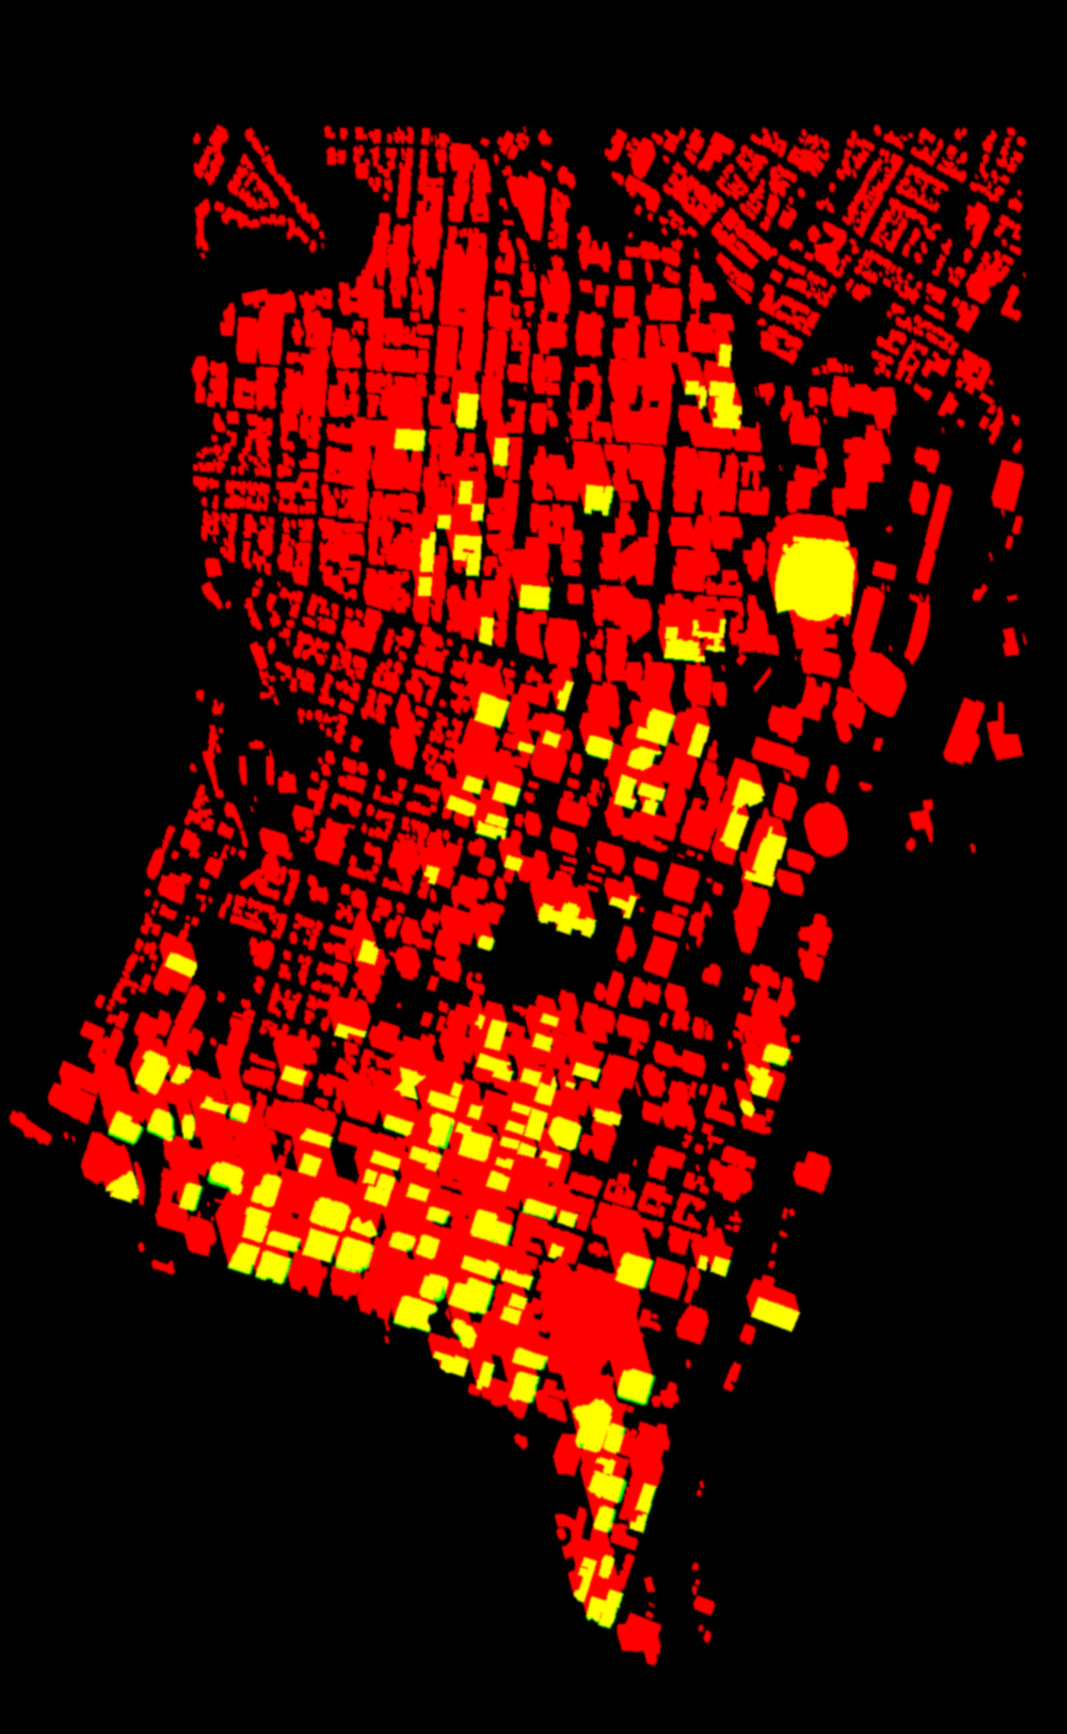
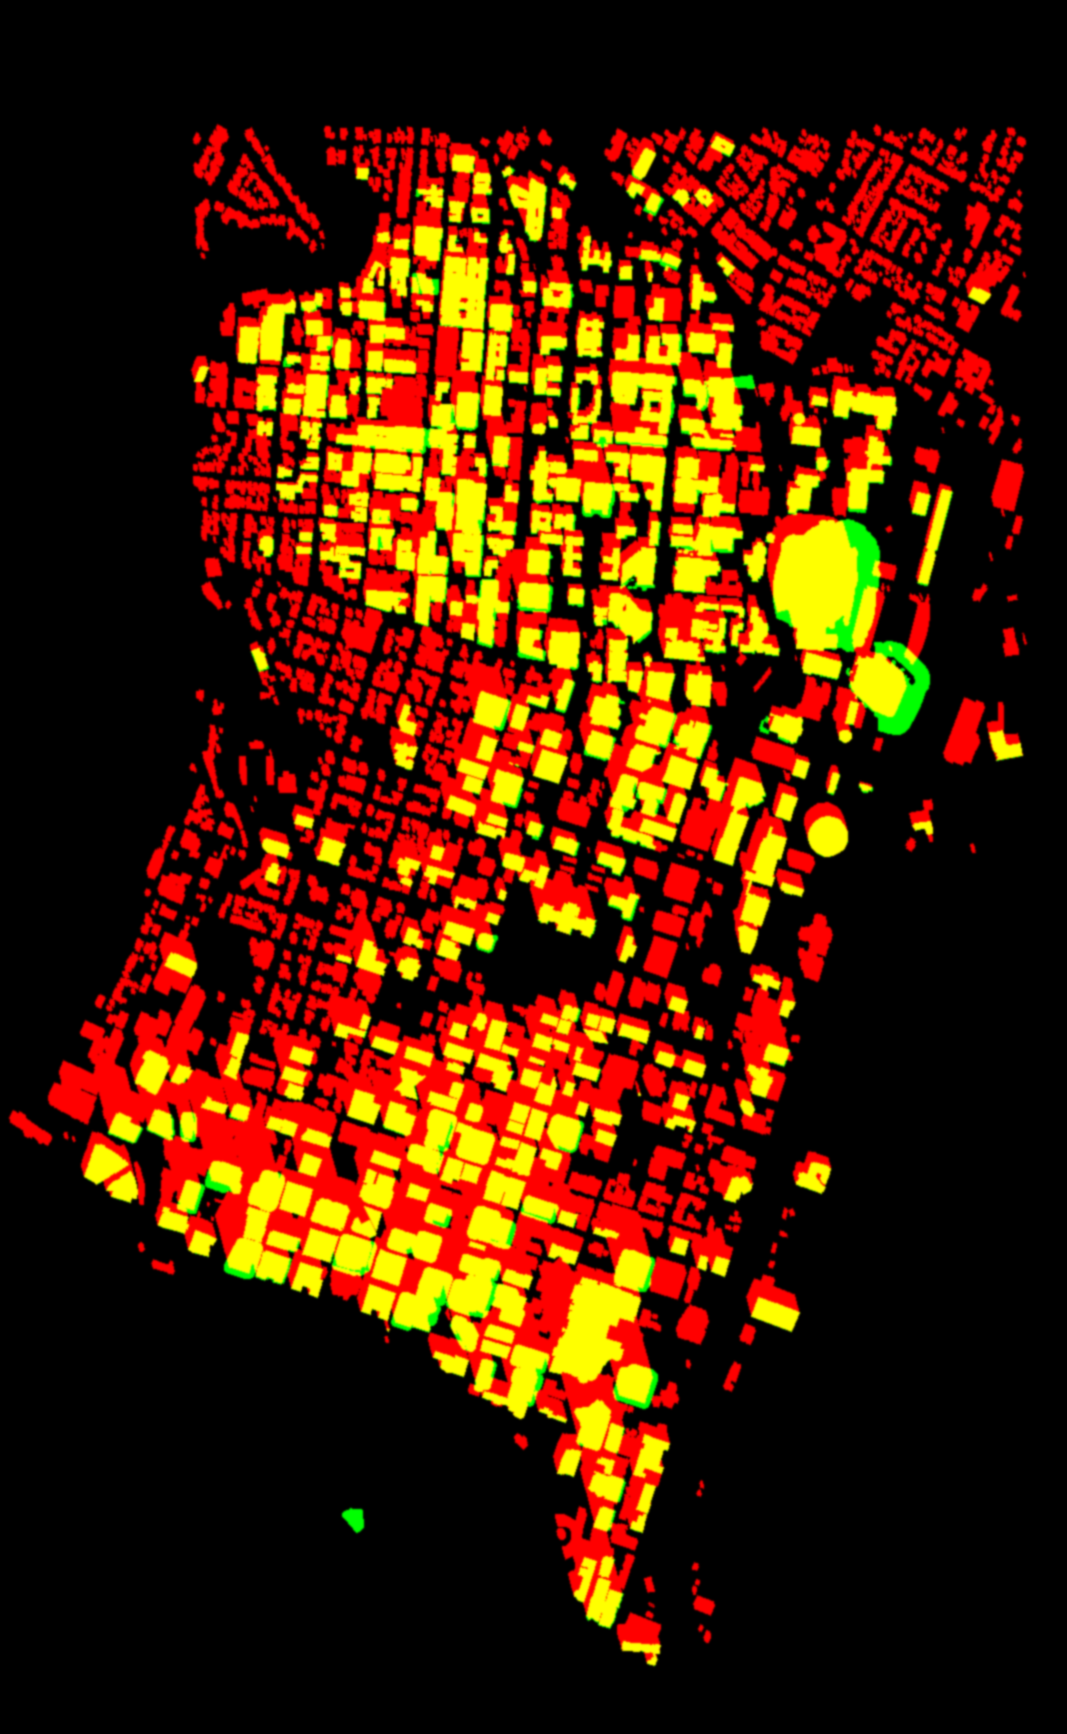
v2 ground: the aerial's leaning image of every Blender model is masked to paving round the model
The photograph is not a true ortho, so tall buildings show displaced beside their footprints (DKR's seating outside the
model's west wall). scripts/v2/street_footprints.mjs rasterises where every Blender model's triangles stand (above 0.5 m,
1.5 m cells); street_mask.py grows each by 0.1 x its top (2-16 m) into the lean channel, plain extrusions over 20 m by
0.05 x height. Lean read on the City aerial: UT Tower < 2 m (0.02 h), DKR upper west deck ~3 m (0.05 h), Frost Bank Tower
10-15 m (~0.08 h). The ground fades 92 % to plain paving there. Lean views added to v2-street-shots.mjs.

diff --git a/v2/street-look.js b/v2/street-look.js
@@ -18,8 +18,8 @@ export const GROUND_LOOK = {
   SHADOW_DARK_LIN: [0.02, 0.09], // linear luminance: fully lifted below the first, not at all above the second
   // Leaning roofs: the photograph is not a true ortho, so a tall roof is drawn beside its footprint. Round tall buildings the ground
   // fades toward this plain paving colour (mask channel G).
-  LEAN_PAVING: '#6b6860',
-  LEAN_STRENGTH: 0.5,
+  LEAN_PAVING: '#55534d',       // the plain paving the ground fades to under and round a leaning building (linear ~0.09, the aerial's pavement after GAIN)
+  LEAN_STRENGTH: 0.92,
 
   // ── streaming (not taste: what keeps it sharp and fast) ───────────────
   LOD_FACTOR: 1.6,              // a tile is split when its pixel is bigger than this many screen pixels at its nearest point

diff --git a/scripts/v2/street_mask.py b/scripts/v2/street_mask.py
@@ -41,9 +41,18 @@ SUN = [
 ]
 SUN_DEFAULT = (165.0, 35.0)                    # read off the photograph: Frost Bank Tower's shadow runs to bearing ~345 (light from ~165), and mid-January at that azimuth in Austin the sun is ~35 deg up (11:15 local)
 MIN_H = 4.0                                    # lower outlines throw too little shadow to matter
-LEAN_MIN_H = 40.0
-LEAN_FRAC = 0.06
-LEAN_MAX_M = 14.0
+# Leaning buildings (channel G). The photograph is not a true ortho: a building's upper floors are drawn displaced away from the
+# photo's centre, beside the real footprint, and show as a ghost on the ground round the 3D model (owner's lane, 2026-10-18: DKR's
+# seating outside the model's west wall). Read on three buildings on the City aerial with their outlines drawn on it (10 m grid):
+# the UT Tower (97 m) under 2 m (0.02 x h: the frame's centre is near it), DKR's upper west deck (68 m) about 3 m (0.05 x h), Frost
+# Bank Tower (157 m) 10-15 m (about 0.08 x h). So: every Blender model's own footprint (street_footprints.mjs: where its triangles
+# stand) grown by LEAN_FRAC_MODEL x its top, at least LEAN_MIN_MODEL_M; every plain extrusion over LEAN_MIN_H by LEAN_FRAC x height.
+LEAN_MIN_H = 20.0
+LEAN_FRAC = 0.05
+LEAN_MAX_M = 10.0
+LEAN_FRAC_MODEL = 0.1
+LEAN_MIN_MODEL_M = 2.0
+LEAN_MAX_MODEL_M = 16.0
 DARK_LIN = 0.06                                # the fit counts a z16 pixel as shadow below this linear luminance
 FEATHER_PX = 1.0                               # a soft edge, so the mask's own pixels never show
 
@@ -130,6 +139,37 @@ def footprint_raster(blds, grow=None):
     return im
 
 
+def model_lean(path, W, H):
+    """Channel G from the Blender models' real footprints, grown by their lean, max-pooled onto the mask grid."""
+    from scipy import ndimage
+    raw = open(path, 'rb').read()
+    cols, rows = np.frombuffer(raw[:8], np.int32)
+    x0, z0, cell = np.frombuffer(raw[8:20], np.float32)
+    ids = np.frombuffer(raw[20:], np.uint16).reshape(rows, cols)
+    meta = json.load(open(path[:-4] + '.json'))
+    out = np.zeros((rows, cols), np.uint8)
+    objs = ndimage.find_objects(ids)
+    for k, sl in enumerate(objs):
+        if sl is None:
+            continue
+        top = meta['tops'][k] or 10
+        r = min(LEAN_MAX_MODEL_M, max(LEAN_MIN_MODEL_M, LEAN_FRAC_MODEL * top))
+        pad = int(np.ceil(r / cell)) + 1
+        j0, j1 = max(0, sl[0].start - pad), min(rows, sl[0].stop + pad)
+        i0, i1 = max(0, sl[1].start - pad), min(cols, sl[1].stop + pad)
+        sub = ids[j0:j1, i0:i1] == (k + 1)
+        sub = ndimage.binary_closing(sub, iterations=2)
+        dist = ndimage.distance_transform_edt(~sub) * cell
+        out[j0:j1, i0:i1] = np.maximum(out[j0:j1, i0:i1], (dist <= r).astype(np.uint8) * 255)
+    # onto the mask grid (same origin; MASK_M is a whole multiple of the footprint cell)
+    f = int(round(MASK_M / float(cell)))
+    hh, ww = min(H * f, rows), min(W * f, cols)
+    g = out[:hh - hh % f, :ww - ww % f].reshape(hh // f, f, ww // f, f).max(axis=(1, 3))
+    res = np.zeros((H, W), np.uint8)
+    res[:g.shape[0], :g.shape[1]] = g
+    return res
+
+
 def lean_raster(blds):
     W, H = size()
     im = Image.new('L', (W, H), 0)
@@ -206,6 +246,7 @@ def main():
     ap = argparse.ArgumentParser()
     ap.add_argument('--fit', action='store_true')
     ap.add_argument('--preview', default=None)
+    ap.add_argument('--footprints', default=None, help='street_footprints.mjs output (.bin), same origin as BOX')
     a = ap.parse_args()
     blds = buildings()
     print(len(blds), 'outlines')
@@ -219,6 +260,8 @@ def main():
         s = np.asarray(shadow_raster(blds, az, el, zband=(reg['z0'], reg['z1'])), np.uint8)
         R = np.maximum(R, s)
     G = np.asarray(lean_raster(blds), np.uint8)
+    if a.footprints:
+        G = np.maximum(G, model_lean(a.footprints, W, H))
     img = Image.merge('RGB', [Image.fromarray(R).filter(ImageFilter.GaussianBlur(FEATHER_PX)),
                               Image.fromarray(G).filter(ImageFilter.GaussianBlur(FEATHER_PX)), Image.new('L', (W, H), 0)])
     # the mask's border must be empty (the shader clamps at the edge)
